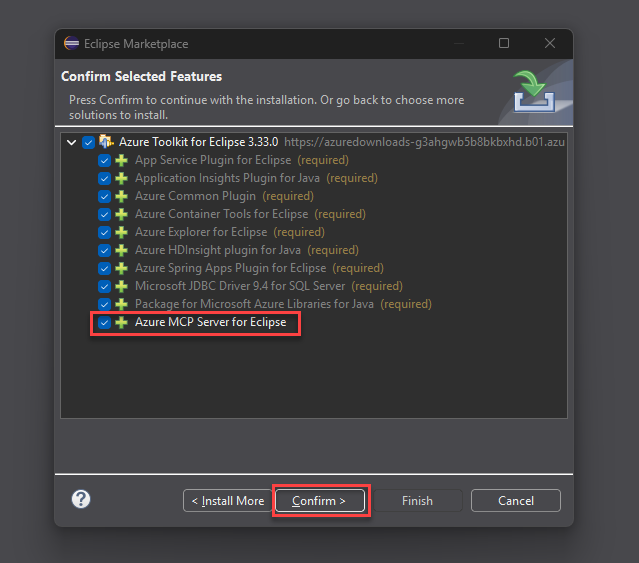
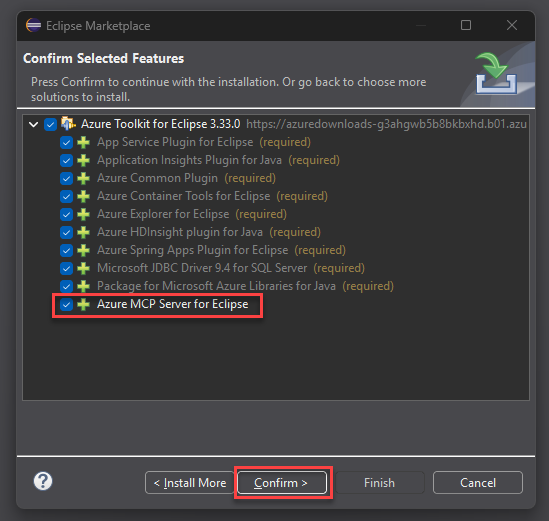
fix images

diff --git a/articles/azure-mcp-server/get-started/tools/eclipse.md b/articles/azure-mcp-server/get-started/tools/eclipse.md
@@ -43,6 +43,8 @@ To install and configure Azure MCP Server in Eclipse:
 1. On the **Confirm Selected Features** window, verify that **Azure MCP Server for Eclipse** is checked.
 1. Select **Confirm** and wait for the plugin to install. The Eclipse IDE restarts after the installation finishes.
 
+    :::image type="content" source="../../media/eclipse-confirm-features.png" alt-text="A screenshot showing how to confirm the Eclipse extension features.":::
+
 ## Verify and test the Azure MCP Server
 
 After you install Azure Toolkit, approve the Azure MCP Server registration with Copilot.
@@ -58,7 +60,7 @@ After you install Azure Toolkit, approve the Azure MCP Server registration with 
 1. In the Copilot chat pane, select the **Tools** icon again to open the preferences window.
 1. Verify the Azure MCP Server for Eclipse displays in the **MCP Tools** section.
 
-    :::image type="content" source="../../media/eclipse-tools.png" alt-text="A screenshot showing the Azure MCP Server tools.":::
+    :::image type="content" source="../../media/eclipse-mcp-tools.png" alt-text="A screenshot showing the Azure MCP Server tools.":::
 
 ## Use prompts to test the Azure MCP Server
 
